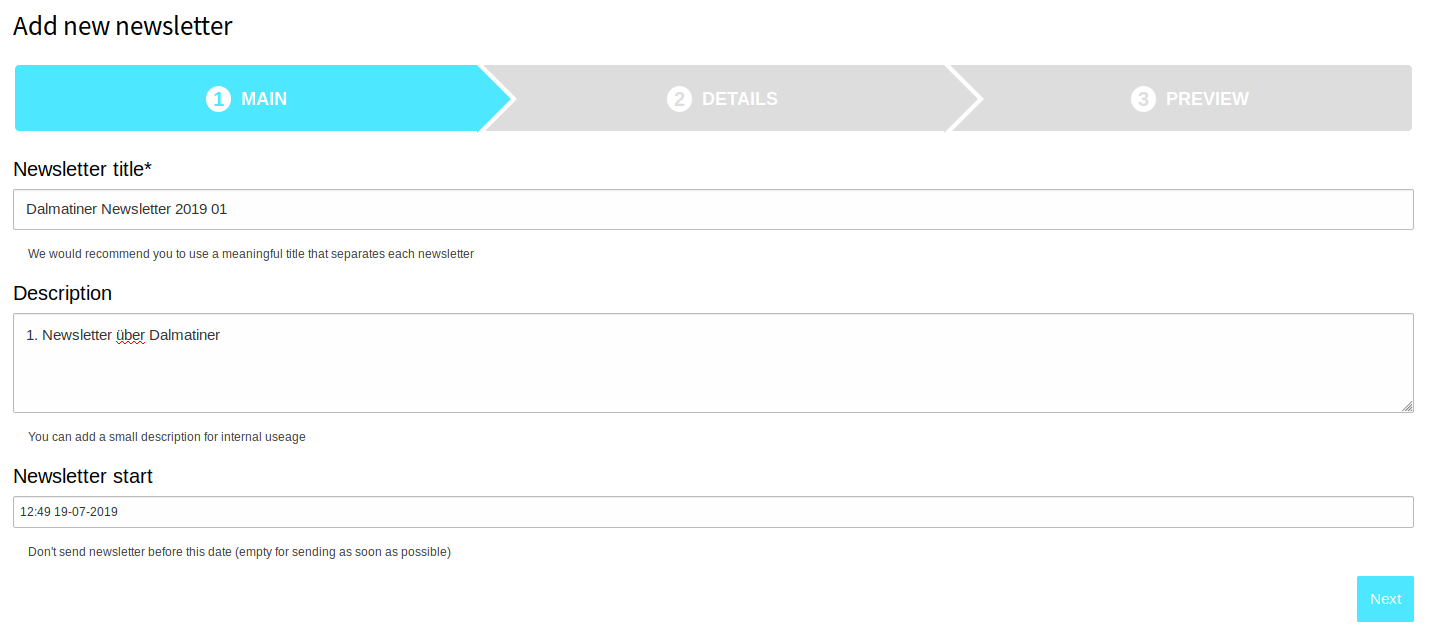
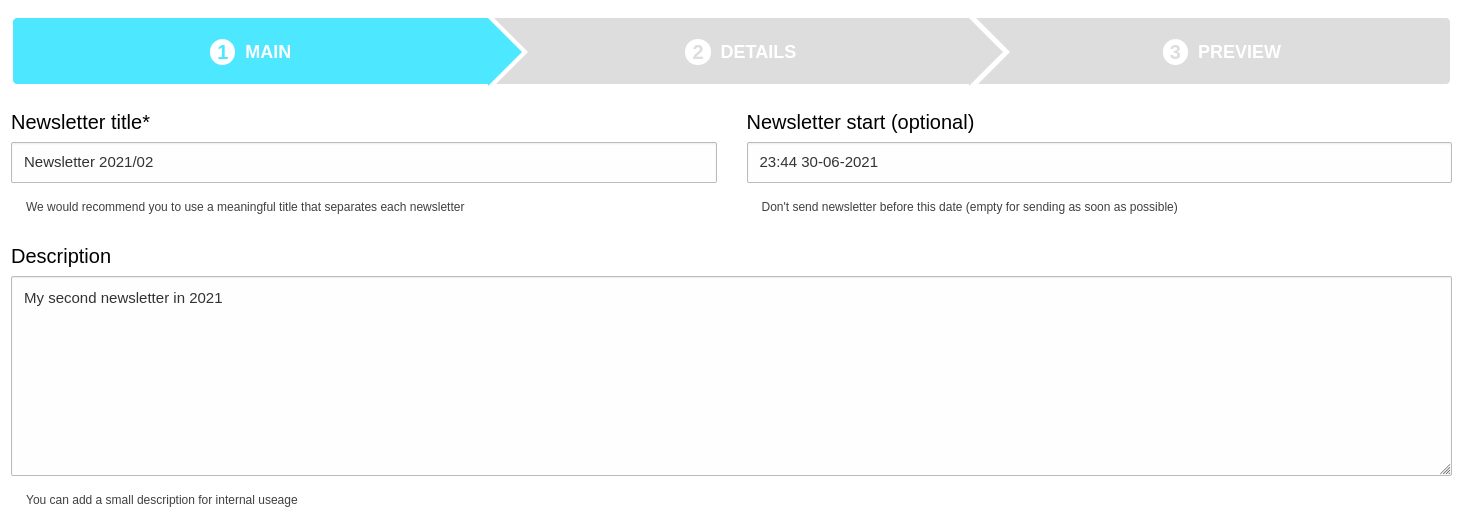
[TASK] Documentation update for version 4.0

diff --git a/Documentation/Installation/Index.md b/Documentation/Installation/Index.md
@@ -1,6 +1,8 @@
 <img align="left" src="../../Resources/Public/Icons/lux.svg" width="50" />
 
-# Luxletter - Email marketing in TYPO3. Send newsletters the easy way.
+# Luxletter - Email marketing in TYPO3
+
+Send newsletters the easy way
 
 ## Installation
 
@@ -11,25 +13,44 @@ composer require "in2code/luxletter"
 ```
 
 Note: Installation without composer could work but is not supported. 
-TYPO3 9.5 is required. The free extension lux can be also installed for more analysis but is not 
+TYPO3 10.4 is required. The free extension lux can be also installed for more analysis but is not 
 neccessary.
 
 
 ### Basic settings in extension configuration
 
-| Field                         | Default value                 | Description                                                                             |
-| ----------------------------- | ----------------------------- | --------------------------------------------------------------------------------------- |
-| Webserver domain              | https://www.domain.org        | Domain for the rendering of the newsletter in frontend. Normally your current domain.   |
-| Unsubscribe PID               | 6                             | Where is your unsubscribe plugin located on your website?                               |
-| Rewrite links in newsletter   | 1                             | Do you want to track if a receiver opens a link? Then you have to check this option.    |
-| Add typenum                   | 1562349004                    | Default typenum if content of your website should be rendered in an email view.         |
-| Show receiver action          | 1                             | Disable the link to the receiver action if you don't need it.                           |
-| Sender email address          | newsletter@yourserver.org     | Define a sender email address for your newsletters.                                     |
-| Sender name                   | Sender name                   | Define a sender name for your newsletters.                                              |
-| Reply email address           | personal@youremail.org        | Real email address of a person that should receive answers to this newsletter email.    |
-| Sender name                   | Sender name                   | Name of the sender for your newsletter (mostly the same as fromName).                   |
+| Field                         | Default value                 | Description                                                                                                                                                                                 |
+| ----------------------------- | ----------------------------- | ------------------------------------------------------------------------------------------------------------------------------------------------------------------------------------------- |
+| Rewrite links in newsletter   | 1                             | Rewrite links in newsletter: Absolute links in your newsletters can be rewritten automatically, to track all link clicks. If you disable this feature, clicks are not tracked.              |
+| Add typenum                   | 1562349004                    | Add typenum: Everytime you parse a html for a new newsletter, this type will be added (can be used in fluidStyledMailContent). This will work only for PID in origin, not for absolute URL. |
+| Show receiver action          | 1                             | Show receiver action: Show link to receiver view in newsletter module. This view is maybe disturbing if you don't use extension lux in addition.                                            |
 
 <img src="../Images/documentation_installation_settings.png" width="800" alt="extension settings" />
+
+
+### Site configuration
+
+You can define one unsubscribe pid per site configuration. This is only relevant if you are using the unsubscribe
+plugin of luxletter.
+
+**Attention** Be aware to use a full domain name in base (Entry point) settings of your site configuration. Good: `https://www.domain.org/` - Bad: `/`
+
+<img src="../Images/documentation_installation_siteconfiguration.png" width="800" alt="Site configuration" />
+
+
+### Sender configuration
+
+| Field          | Description                                                                                                                                                                                 |
+| -------------- | ------------------------------------------------------------------------------------------------------------------------------------------------------------------------------------------- |
+| Title          | Your internal title for this sender configuration                                                                                                                                           |
+| Sender email   | Sender email address for newsletter email                                                                                                                                                   |
+| Sender name    | Sender name for newsletter email                                                                                                                                                            |
+| Reply to email | Email address when a receiver wants to send an answer to the newsletter                                                                                                                     |
+| Reply to name  | Name when a receiver wants to send an answer to the newsletter                                                                                                                              |
+| Site           | This defines your domain/site and is needed for the unsubscribe plugin and for building absolute URI                                                                                        |
+
+<img src="../Images/documentation_installation_senderconfiguration.png" width="800" alt="Sender configuration" />
+
 
 
 ### TypoScript
@@ -74,7 +95,7 @@ Don't forget to add the page identifier to the main extension settings (see abov
 * In addition you can add a message that should appear if a user just unsubscribed.
 
 **Note** Unsubscribing is only possible if a hash is added to the link call. 
-See `{luxletter:mail.getUnsubscribeUrl(newsletter:newsletter,user:user)}` in the newsletter layout 
+See `{luxletter:mail.getUnsubscribeUrl(newsletter:newsletter,user:user,site:site)}` in the newsletter layout 
 on EXT:lux/Resources/Private/Templates/Mail/NewsletterContainer.html
 
 

diff --git a/Documentation/Newsletter/Index.md b/Documentation/Newsletter/Index.md
@@ -93,7 +93,7 @@ But luxletter will render your content again with TABLE-mechanism if you are add
 Example output:
 <img src="../Images/documentation_newsletter_type.png" width="800" alt="typenum for newsletter markup" />
 
-**Note** If you are using Sites in TYPO3 9, typenum should be defined in the configuration. Example:
+**Note** Typenum routing should be defined in the configuration. Example:
 
 ```
 routeEnhancers:
@@ -155,7 +155,7 @@ The existing template is using the **Zurb Foundation email template**
 (see https://foundation.zurb.com/emails/docs/css-guide.html for details)
 
 **Note** There is also an unsubscribe link in the footer - look for 
-`<f:link.external uri="{luxletter:mail.getUnsubscribeUrl(newsletter:newsletter,user:user)}" additionalAttributes="{data-luxletter-parselink:'false'}">Unsubscribe now</f:link.external>`
+`<f:link.external uri="{luxletter:mail.getUnsubscribeUrl(newsletter:newsletter,user:user,site:site)}" additionalAttributes="{data-luxletter-parselink:'false'}">Unsubscribe now</f:link.external>`
 
 **Note** Normally links in luxletter should be rewritten, so clicks can be tracked. But in some
 cases you don't want to rewrite all links. Some should not be rewritten. Just add an attribute
@@ -194,16 +194,17 @@ Clicking on `Add new newsletter` starts a process where you can create new newsl
 | Field                   | Description                                                                             |
 | ----------------------- | --------------------------------------------------------------------------------------- |
 | Newsletter title        | Add a useful title to your newsletter                                                   | 
-| Description             | Add a useful title to your newsletter                                                   | 
 | Newsletter start        | If you select a start time (optional), newsletters will not be send before this time    | 
+| Description             | Add a useful title to your newsletter                                                   | 
 
 <img src="../Images/documentation_newnewsletter_step2.png" width="800" alt="create new newsletter - step 2" />
 
 | Field                   | Description                                                                             |
 | ----------------------- | --------------------------------------------------------------------------------------- |
+| Sender                  | Choose a sender record                                                                  | 
+| Receiver                | Choose a receiver group (frontenduser groups that marked as luxletter groups)           | 
 | Mail subject            | Mail subject (also variables are allowed like {user.lastName}                           | 
-| Choose a receiver group | Choose a receiver group (frontenduser groups that marked as luxletter groups)           | 
-| Newsletter location     | Choose where your HTML for the newsletter is located. An absolute URL like https://domain.org/newsletter.html is possible. If you add a number, the page will be parsed (typenum is automaticly added) | 
+| Newsletter location     | Choose where your HTML for the newsletter is located. An absolute URL like https://domain.org/newsletter.html is possible. If you add a number (PID), the page will be parsed (typenum is automaticly added) | 
 
 <img src="../Images/documentation_newnewsletter_step3.png" width="800" alt="create new newsletter - step 3" />
 

diff --git a/readme.md b/readme.md
@@ -19,7 +19,7 @@ it.
 ### The upside
 
 * A useful and nice **dashboard** shows you the relevant information in the backend
-* Modern newsletter extension for TYPO3 9
+* Modern newsletter extension for TYPO3 10
 * Tracking of clicks via **PSR-15 interface** in TYPO3
 * Sending mails in queue via **symfony command controller**
 * Records for **fe_groups** (and there related fe_users) are used to send mails to
@@ -27,6 +27,7 @@ it.
 * A **teaser content element** helps you to create newsletters out of default content elements in TYPO3
 * Every website can be used as prototype for your newsletter
 * A **third party mailserver** can be used for newsletters
+* Since 4.0 multiple sender configuration can be saved
 
 ### The downside
 
@@ -81,17 +82,16 @@ See the full [documentation](Documentation/Index.md) (installation, configuratio
 
 ## Technical requirements
 
-* TYPO3 9 or 10 LTS is the basic CMS for this newsletter tool.
+* TYPO3 10 LTS is the basic CMS for this newsletter tool.
 * EXT:lux is **not needed** to run luxletter but both extensions can work together to show more relevant information.
 * This extension needs to be **installed with composer** (classic installation could work but is not supported and tested).
-* fe_users records are used to send emails to while fe_groups is used to select a group of them
+* fe_users in fe_groups is used to send newsletter emails to.
 
 
 ## Sponsored features (please get in contact to us if you want to sponsor a new feature)
 
 * Import of fe_users from tt_address (to migrate easier from direct_mail to luxletter)
 * Editview of existing newsletters (reparse function?)
-* Move global newsletter configuration to records to use different settings per newsletter
 
 
 ## Installation with composer
@@ -105,13 +105,14 @@ composer require "in2code/luxletter"
 
 ### Upgrade to 4.x
 
-Multiple sender can now be defined in records, in addition it's not needed to define a domain in extension configuration
+Multiple senders can now be defined in records, in addition it's not needed to define a domain in extension configuration
 any more. We now look into site configuration. But that change needs you to adjust some stuff.
 
 Breaking changes in detail and what you have to do step by step after you have updated the extension:
 
 * Add one (ore more) record(s) with sender information on any sysfolder
 * Update your site configuration with an unsubscribe pid (so you could use different unsubscribe plugins now)
+* Take care that your base (Entry point) settings in site configuration is not just `/` but a full domain prefix like `https://www.domain.org/`
 * Create new newsletter records with the new sender configuration. **Note:** Old newsletters won't be queued any more because a sender configuration is missing
 * Update your HTML template files (compare your files with `EXT:luxletter/Resources/Private/Templates/Mail/NewsletterContainer.html`)
   * If you are using the viewhelper `luxletter:mail.getUnsubscribeUrl` now another argument must be passed: `site` - example: `{luxletter:mail.getUnsubscribeUrl(newsletter:newsletter,user:user,site:site)}`

diff --git a/Documentation/Index.md b/Documentation/Index.md
@@ -1,6 +1,8 @@
 <img align="left" src="../Resources/Public/Icons/lux.svg" width="50" />
 
-# Luxletter - Email marketing in TYPO3. Send newsletters the easy way.
+# Luxletter - Email marketing in TYPO3
+
+Send newsletters the easy way
 
 ## Documentation start
 
